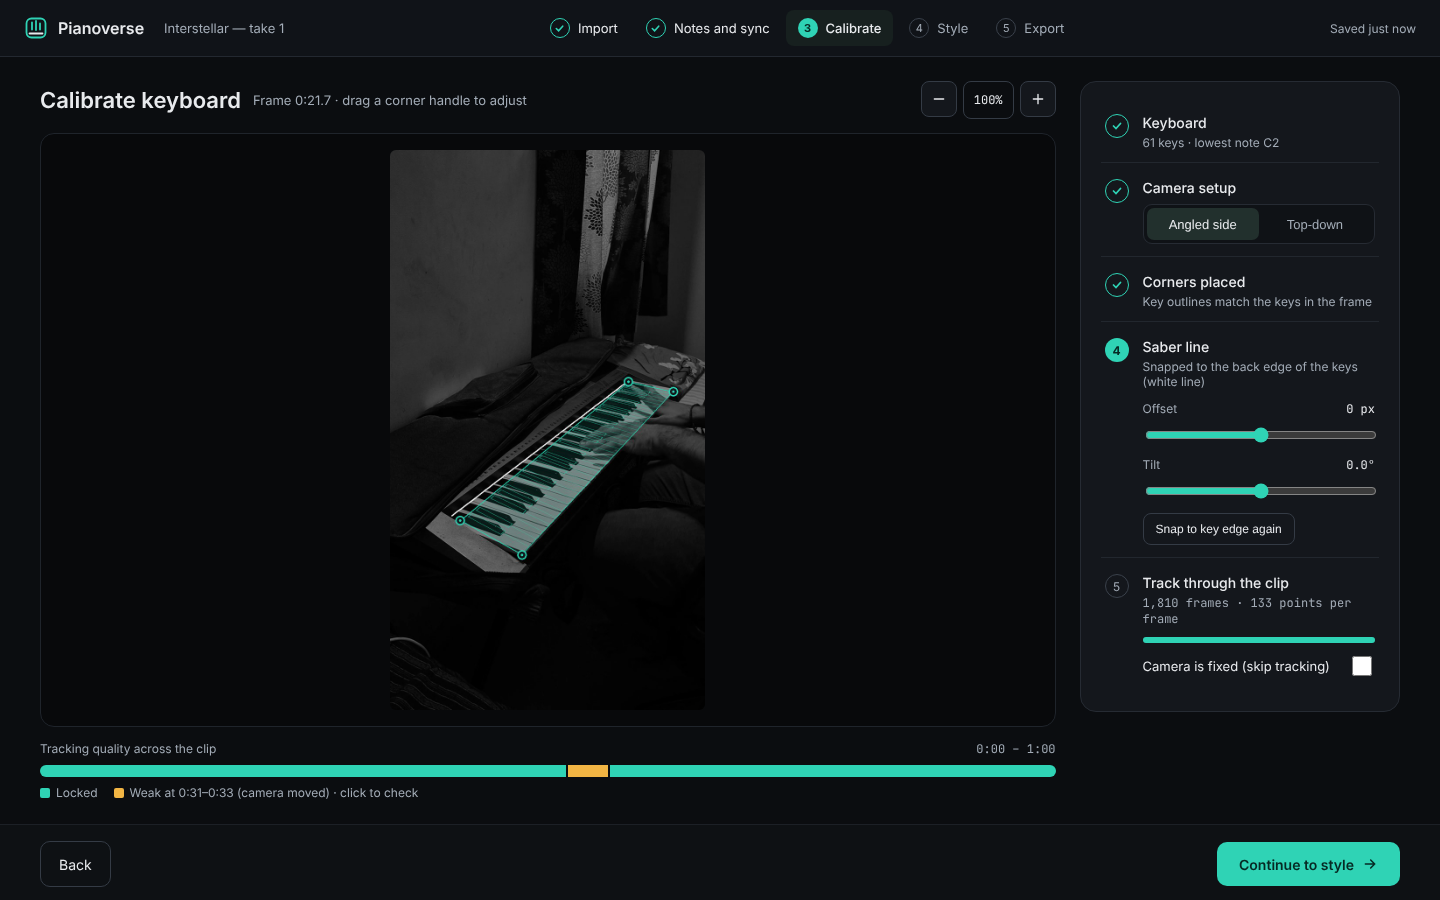
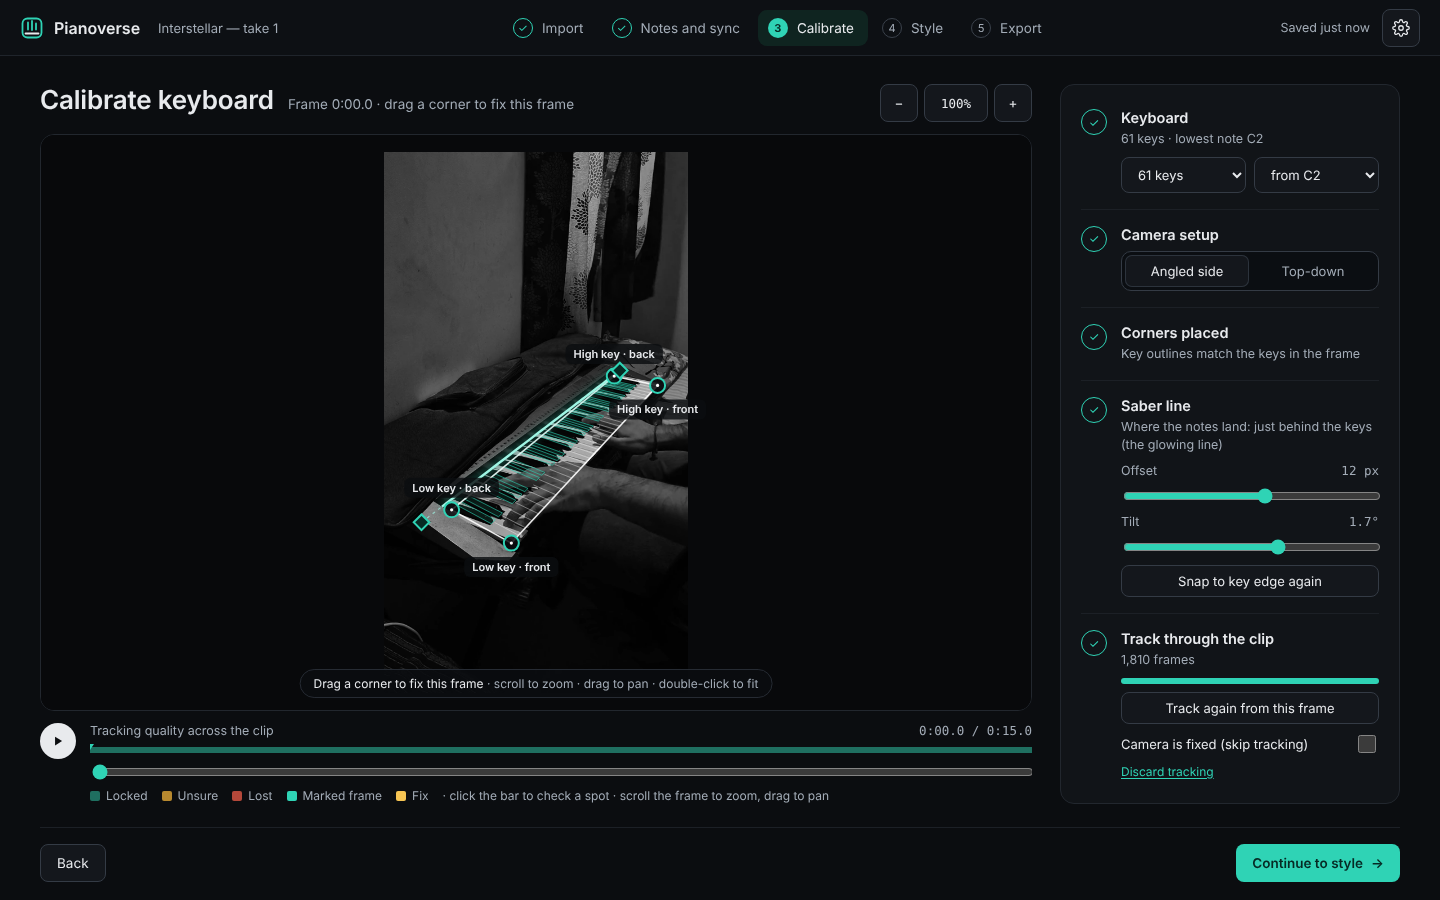
README: Milestone 4 and 5 features, real screenshots, six looks, export [skip ci]
Claude-Session: https://claude.ai/code/session_01CdoMS8U3BJzhtMLBWDcmEz

diff --git a/README.md b/README.md
@@ -4,17 +4,23 @@
 
 <p align="center">
   <a href="https://github.com/HetavShah/pianoverse/actions/workflows/build.yml"><img src="https://github.com/HetavShah/pianoverse/actions/workflows/build.yml/badge.svg" alt="Windows build"></a>
-  <img src="https://img.shields.io/badge/platform-Windows%2011-0B0D10?style=flat&logo=windows&logoColor=2FD3B5" alt="Windows 11">
+  <a href="https://github.com/HetavShah/pianoverse/releases/latest"><img src="https://img.shields.io/github/v/release/HetavShah/pianoverse?style=flat&color=2FD3B5&label=download" alt="Latest release"></a>
+  <img src="https://img.shields.io/badge/platform-Windows%2010%20%7C%2011-0B0D10?style=flat&logo=windows&logoColor=2FD3B5" alt="Windows 10 and 11">
   <img src="https://img.shields.io/badge/GPU-WebGPU%20%2B%20WGSL-0B0D10?style=flat&logoColor=2FD3B5" alt="WebGPU">
   <img src="https://img.shields.io/badge/shell-Tauri%202-0B0D10?style=flat&logo=tauri&logoColor=2FD3B5" alt="Tauri 2">
-  <img src="https://img.shields.io/badge/status-Milestone%203-2FD3B5?style=flat" alt="Milestone 3">
+  <img src="https://img.shields.io/badge/status-Milestone%205%20done-2FD3B5?style=flat" alt="Milestone 5 done">
 </p>
 
 <h3 align="center">Film yourself playing. Pianoverse makes the music visible.</h3>
 
 <p align="center">
   Glass notes rain down onto your <b>real</b> keyboard, land on a light saber that flares where you play,<br>
-  and every note releases a plume of glitter that curls through the air — all rendered live on your graphics card.
+  and every note releases a plume of glitter that curls through the air — rendered live on your graphics card<br>
+  and exported as a finished video for Shorts, Reels or YouTube.
+</p>
+
+<p align="center">
+  <a href="https://github.com/HetavShah/pianoverse/releases/latest"><b>Download for Windows</b></a>
 </p>
 
 ---
@@ -23,16 +29,16 @@
 
 <table>
   <tr>
-    <td width="40%" align="center"><img src="docs/images/demo.gif" alt="Animated clip: notes landing on the saber and glitter plumes rising" width="100%"></td>
+    <td width="40%" align="center"><img src="docs/images/demo.gif" alt="Animated clip rendered by Pianoverse: notes landing on the saber and glitter plumes rising" width="100%"></td>
     <td width="60%" valign="top">
 
 ### What happens on screen
 
-**Glass notes** — rounded crystal bars with a bright rim, bevelled edges and a corner glint. Their length is how long you hold the note.
+**Notes** — glass, gem, round, solid, outline or soft-glow bars, with real textures inside if you like. Their length is how long you held the key; the sustain pedal can stretch them.
 
-**A light saber on your keys** — a white-hot line traced along the real back edge of your keyboard, with a flickering plasma fringe that flares in the note's colour wherever you play.
+**A light saber on your keys** — a line of light along the back edge of your keyboard that flares in the note's colour wherever you play. Plasma, straight, electric, soft beam or flame.
 
-**Glitter plumes** — every hit launches streams of fine sparkles that ride a swirling air current, curl into ribbons and fade.
+**Particles** — every hit launches fine sparkles that rise in plumes, arc like a fountain, spray from held notes, spiral in a vortex, or trace a shape such as a heart.
 
 **Real light** — impacts throw coloured light onto your hands and keys, louder notes hit harder, held keys keep glowing, and bass notes make the whole scene breathe.
 
@@ -44,24 +50,71 @@
 
 ---
 
-## Five steps from video to visualizer
+## One take, six looks
 
-> The app follows this design. Steps 1–3 and the Style preview are built; the detailed style controls (Milestone 4) and Export (Milestone 5) are next.
+<p align="center">
+  <img src="docs/images/looks.jpg" alt="The same frame rendered with six looks: Interstellar Teal, Neon with an electric saber, Ember with a flame saber, twelve colours with note names, gold foil texture, and Aurora with gem notes" width="100%">
+</p>
+
+<p align="center"><sub>The same moment, rendered by Pianoverse: Interstellar Teal · Neon (electric saber, vortex) · Ember (flame saber, fountain) · Twelve colours (solid notes, note names) · Gold foil texture · Aurora (gem notes, held-note spray)</sub></p>
+
+Every look is made in the **Style** step, where each layer has its own panel:
+
+| Layer | What you can change |
+| --- | --- |
+| **Colours** | 1 colour, 12 colours (one per note name), gradient across the keyboard (by pitch, loudness or time), MIDI tracks, MIDI channels, a split for left and right hand, or random. Twelve palettes plus a colour wheel. |
+| **Notes** | Style (Glass, Gem, Round, Solid, Outline, Soft glow), size, rounding, rim, glow, opacity, lighting. Textures: Ice, Onyx, Marble, Gold foil, a moving Crystal flow, or your own image or video. Note names and bar lines. |
+| **Saber** | Plasma, Straight, Electric, Soft beam or Flame; brightness, thickness, flicker, how much it reacts, height on the keys, its own colour. |
+| **Impact** | Flash size and brightness, streak length, how long the flash lasts. |
+| **Particles** | Presets (Explode, Fast playing, High count, High turbulence, Twirl …) and motions: Plumes, Fountain, Held-note spray, Vortex, Shape. Turbulence, gravity, wind, lifetime, size, twinkle, haze. |
+| **Lighting** | Key glow, glow before a note lands, coloured light on hands and keys, bass pulse. |
+| **Background** | Your footage (darken, contrast, saturation, vignette), a plain colour, or an image of your own with its own position and colour controls. |
+| **Glow and film** | Bloom, wide bloom, colour fringe and film grain. |
+
+Save a look as a preset and reuse it on the next video.
 
 <table>
   <tr>
-    <td width="50%"><img src="docs/images/screen-main.png" alt="Projects screen with recent projects and saved looks"><br><b>0 · Projects</b> — your videos and saved looks, one click to start.</td>
-    <td width="50%"><img src="docs/images/screen-import.png" alt="Import screen with the video and MIDI file"><br><b>1 · Import</b> — drop in the performance video and the MIDI recorded with it.</td>
-  </tr>
-  <tr>
-    <td width="50%"><img src="docs/images/screen-sync.png" alt="Sync screen showing the waveform with MIDI notes lined up"><br><b>2 · Notes and sync</b> — MIDI lines itself up with the audio automatically; nudge it to the millisecond.</td>
-    <td width="50%"><img src="docs/images/screen-calibrate.png" alt="Calibration screen with the keyboard outlined and the saber line"><br><b>3 · Calibrate</b> — mark the keyboard once; it is tracked through the whole clip.</td>
-  </tr>
-  <tr>
-    <td width="50%"><img src="docs/images/screen-style.png" alt="Style editor with layers, live preview, particle settings and timeline"><br><b>4 · Style</b> — every layer has its own controls, and the preview plays live while you tweak.</td>
-    <td width="50%"><img src="docs/images/screen-export.png" alt="Export screen with size, format and progress"><br><b>5 · Export</b> — Shorts, landscape or square, encoded on the GPU.</td>
+    <td width="30%" align="center"><img src="docs/images/shape-heart.jpg" alt="A frame from a shape section: sparks trace a heart above the keyboard" width="100%"></td>
+    <td width="70%" valign="middle">
+
+### Shape sections
+
+Pick a stretch of the timeline and the sparks from the notes played there trace a shape: they leave the keys, travel round the outline clockwise or anticlockwise, and fade as they close it. The rest of the video keeps its normal particles, and you can keep the normal particles inside the section too. Built-in shapes or your own SVG.
+
+  </td>
   </tr>
 </table>
+
+---
+
+## Five steps from video to visualizer
+
+<table>
+  <tr>
+    <td width="50%"><img src="docs/images/screen-import.png" alt="Import screen with the video and project settings"><br><b>1 · Import</b> — drop in the performance video and the MIDI recorded with it. Pick the camera setup and keyboard size.</td>
+    <td width="50%"><img src="docs/images/screen-sync.png" alt="Notes and sync screen with the waveform and the notes lined up"><br><b>2 · Notes and sync</b> — the MIDI lines itself up with the audio; check it by ear and nudge it to the millisecond. No MIDI? Detect the notes from the audio.</td>
+  </tr>
+  <tr>
+    <td width="50%"><img src="docs/images/screen-calibrate.png" alt="Calibrate screen with the keyboard corners and the saber line"><br><b>3 · Calibrate</b> — drag four corners onto the keys once; the keyboard is tracked through the whole clip.</td>
+    <td width="50%"><img src="docs/images/screen-style.png" alt="Style screen with the Colours panel, live preview and timeline"><br><b>4 · Style</b> — every layer has its own panel, the preview plays live while you tweak, and the timeline holds shape sections and loop ranges.</td>
+  </tr>
+  <tr>
+    <td colspan="2"><img src="docs/images/screen-export.png" alt="Export screen with sizes, format, encoder and preview"><br><b>5 · Export</b> — Shorts, landscape, square or 4K vertical, encoded on your graphics card.</td>
+  </tr>
+</table>
+
+### Export
+
+| | |
+| --- | --- |
+| **Sizes** | Shorts 1080×1920 · Landscape 1920×1080 · Square 1080×1080 · 4K vertical 2160×3840 — crop to fill or fit inside |
+| **Encoder** | NVIDIA NVENC, AMD AMF or Intel Quick Sync, detected automatically; x264 / x265 on the processor otherwise |
+| **Format** | MP4 in H.264, or H.265 for smaller files; quality High, Medium or Small file |
+| **Frame rate** | Same as the video, or 24, 30 or 60 fps |
+| **Sound** | The original audio, copied without re-encoding when it is AAC, otherwise converted at high quality |
+| **For editors** | The effects alone on a transparent background, as ProRes 4444 `.mov`, for DaVinci Resolve or Premiere |
+| **Extras** | Export only the part picked on the timeline · save the current frame as a PNG · show the file in its folder |
 
 ---
 
@@ -77,15 +130,16 @@ flowchart LR
     T --> G
     subgraph G[GPU renderer · WGSL]
       direction TB
-      G1[Glass notes] --> L[Light layer]
-      G2[Light saber + plasma] --> L
+      G1[Notes + textures] --> L[Light layer]
+      G2[Saber] --> L
       G3[Key glow + impact flashes] --> L
       G4[Particle simulation<br/>compute shader] --> L
       L --> B[Bloom]
       B --> C[Composite<br/>grade · relight · soft knee]
     end
     C --> P[Live preview]
-    C --> E[Export MP4]
+    C --> R[Read back frames] --> F[FFmpeg<br/>NVENC · AMF · QSV · x264]
+    F --> E[MP4 / ProRes]
 ```
 
 A few ideas that make it work:
@@ -93,7 +147,7 @@ A few ideas that make it work:
 - **Keyboard-space geometry.** Every key, the saber line and every landing point are defined on the keyboard plane and projected into the frame with that frame's tracked homography, so effects stay glued to the keys even when the camera drifts.
 - **Stateless particles.** A particle's position at time *t* is recomputed from the moment its note was hit, inside a compute shader. Any frame can be drawn on its own, which makes scrubbing instant and export identical every time.
 - **Light that behaves.** Effects build up in an HDR light layer, get bloom, and are blended with a soft knee, so bright moments glow without blowing out your hands.
-- **One engine everywhere.** The same WGSL shaders drive the live preview and the export.
+- **One engine everywhere.** The same WGSL shaders drive the live preview and the export. Export renders each frame offscreen at the output size, reads it back and pipes the raw pixels to FFmpeg, which encodes on the graphics card when it can.
 
 ---
 
@@ -101,12 +155,12 @@ A few ideas that make it work:
 
 - [x] **Milestone 1 — Engine prototype.** GPU renderer reproduces the approved look on the sample video, live.
 - [x] **Milestone 2 — Calibration and tracking.** Mark four corners on any frame, built-in keyboard tracker (drift-free, sub-pixel), manual fixes that blend into neighbouring frames, any keyboard size from 25 to 88 keys.
-- [x] **Milestone 3 — Notes and sync.** MIDI import (tempo maps, velocities), automatic alignment to the video's audio within a few milliseconds, sync strip with nudging, note detection from audio with Spotify's basic-pitch for videos without MIDI.
-- [ ] **Milestone 4 — Style panels and presets.** Every setting live, including the electric-arc saber; save and share looks.
-- [ ] **Milestone 5 — Export.** Full-quality render with NVENC hardware encoding.
-- [ ] **Milestone 6 — Polish.** Installer, autosave, undo, speed tuning.
+- [x] **Milestone 3 — Notes and sync.** MIDI import (tempo maps, velocities, sustain pedal), automatic alignment to the video's audio within a few milliseconds, sync strip with nudging, note detection from audio with Spotify's basic-pitch for videos without MIDI.
+- [x] **Milestone 4 — Style panels and presets.** Eight layers with live controls, note styles and textures, colour modes and palettes, five saber styles, particle motions and shape sections, presets.
+- [x] **Milestone 5 — Export.** Full-quality render with NVENC / AMF / Quick Sync encoding, four sizes, H.264 and H.265, original audio, transparent ProRes effects, selected part only, PNG frames.
+- [ ] **Milestone 6 — Polish.** Signed installer, auto-update and autosave are in; undo and redo, speed tuning and keyboard shortcuts are next.
 
-**Later:** notes that pass behind your hands · live mode for streaming · driving a real LED strip on the keyboard · automatic Shorts cuts.
+**Later:** notes that pass behind your hands · picture shapes and a drawing canvas for particle paths · live mode for streaming · driving a real LED strip on the keyboard · automatic Shorts cuts.
 
 ---
 
@@ -116,7 +170,10 @@ A few ideas that make it work:
 2. Click **New project** and choose your performance video (phone videos in HEVC are converted once, on the graphics card). Add the MIDI file recorded with it, or skip it.
 3. **Notes and sync**: the MIDI lines itself up with the video's sound; check it by ear with **Play click on each note**. No MIDI? **Detect from audio**.
 4. **Calibrate**: drag the four handles onto the corners of the keys, set the saber line, and track the clip if the camera moved.
-5. **Style**: play it back with every effect. Projects save themselves and appear on the Projects screen.
+5. **Style**: play it back with every effect and shape each layer. Drag across the timeline to loop a section or add a shape section.
+6. **Export**: pick a size and click **Export video**. Videos are saved in `Videos\Pianoverse` unless you choose another place.
+
+Projects save themselves and appear on the Projects screen.
 
 To try the sample: start a new project with `samples/interstellar-take1.mp4`, or open `samples/interstellar-take1.pvproj.json` with **Open project file…** and choose the video when asked.
 
@@ -147,30 +204,42 @@ Every push to `main` builds a signed Windows installer on GitHub Actions and pub
 
 ```
 src/
-  App.tsx                    app window: open/save, Calibrate and Preview modes, transport
-  ui/                        calibration editor, panel, tracking runner, project saving
+  App.tsx                    app window: steps, transport, autosave
+  ui/
+    steps/                   Import, Notes and sync, Calibrate, Style, Export screens
+    LookControls.tsx         the style panels (colour wheel, palettes, textures, sliders)
+    StyleTimeline.tsx        timeline with notes, tracking quality, loop and shape sections
+    ShapePicker.tsx, ShapeSections.tsx   particle shapes and timeline sections
+    exportRun.ts             renders every frame and hands it to the encoder
+    CalibrateCanvas.tsx, trackRun.ts     calibration editor and tracking runner
+    WaveSync.tsx             waveform and note alignment strip
   engine/
     geometry.ts              homographies
     tracker.ts               keyboard tracker (pyramidal Lucas-Kanade + RANSAC)
     calibration.ts           presets, smoothing, fixes, per-frame keyboard pose
-    notes.ts                 MIDI import, note sources and offsets
+    notes.ts                 MIDI import, sustain, tracks and channels
     sync.ts                  automatic alignment (onset envelope + overlap-normalised correlation)
     detect.ts                note detection from audio (basic-pitch, loaded on demand)
-    project.ts               project file, notes, keyboard geometry
-    renderer.ts              per-frame scene building and GPU passes
+    look.ts                  every style setting, presets, palettes
+    noteTextures.ts          note textures (images and moving video textures)
+    shapePoints.ts           SVG shapes to particle paths
+    renderer.ts              per-frame scene building, GPU passes, offscreen capture
     shaders/
-      glass.wgsl             glass note bars
-      saber.wgsl             light saber and plasma fringe
+      glass.wgsl             note bars and textures
+      saber.wgsl             the five saber styles
       keys.wgsl              key glow
       sprites.wgsl           impact flashes and streaks
+      labels.wgsl            note names and bar lines
       particles_sim.wgsl     stateless particle simulation (compute)
       particles_draw.wgsl    glitter points and star glints
-      post.wgsl              bloom and final composite
-src-tauri/                   Windows app shell (Tauri 2)
+      post.wgsl              background, bloom, final composite, transparent export
+src-tauri/src/
+  main.rs                    Windows app shell (Tauri 2), updater
+  media.rs                   FFmpeg download, video conversion
+  export.rs                  export encoder: GPU detection, FFmpeg arguments, frame pipe
+  projects.rs, textures.rs   project and texture library on disk
 samples/                     sample project data
-test/render_frames.mjs       headless render check against the approved look
-test/track_*.ts              tracker accuracy on the sample and under simulated camera motion
-test/calibrate_flow.mjs      end-to-end calibration in a headless browser
+test/                        headless render, tracker, calibration and export checks
 docs/images/                 README images
 ```
 
@@ -181,11 +250,14 @@ docs/images/                 README images
 
 | Part | Choice |
 | --- | --- |
-| App shell | Tauri 2 (Rust) |
+| App shell | Tauri 2 (Rust), signed installer and auto-update |
 | Interface | React + TypeScript, Vite |
 | Renderer | WebGPU with WGSL shaders |
 | Tracking | Built-in: pyramidal Lucas-Kanade against the marked frame + RANSAC homography, in a Web Worker |
 | Notes | MIDI via @tonejs/midi, or detected from audio with Spotify basic-pitch (TensorFlow.js) |
+| Export | FFmpeg with NVENC, AMF, Quick Sync or x264/x265; ProRes 4444 for transparent effects |
+
+Note textures use CC0 materials from [ambientCG](https://ambientcg.com).
 
 </details>
 
